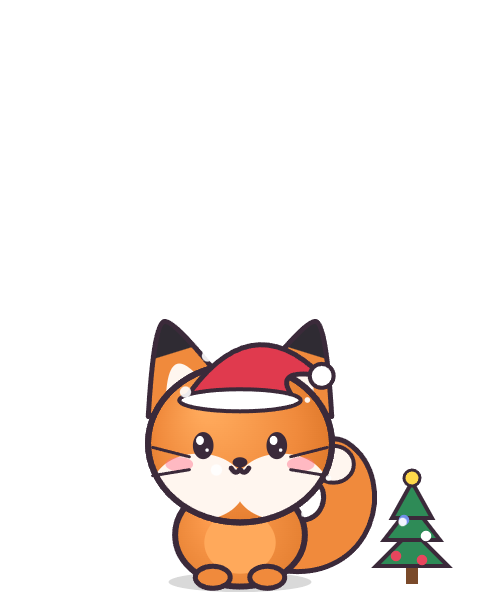
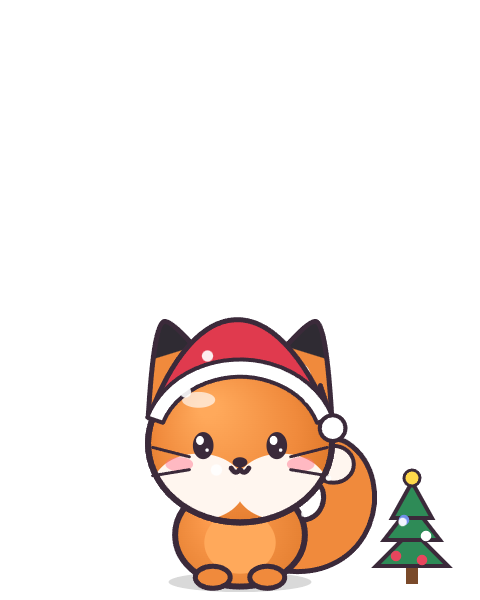
Version 2.3.3
- Bonnet de Noël redessiné : il épouse la tête comme le bonnet de nuit
- Site : encadré expliquant l'avertissement de macOS et comment l'autoriser gratuitement (Réglages ou Terminal)
- Site : après un clic sur « Télécharger », la page descend jusqu'aux conseils d'installation du bon système ; rappel pour Mac sous les boutons

Changed region(s): [[0.3125, 0.51, 0.75, 0.75]]

diff --git a/src/draw.js b/src/draw.js
@@ -385,24 +385,14 @@ function drawAccessory(ctx, kind, cx, g, v) {
     ellipse(ctx, 0, -r * 0.88, r * 0.1, r * 0.1, '#ff6f91', INK, 1.5);
     ctx.restore();
   } else if (kind === 'noel') {
-    const baseY = headCy - headRy * 0.62;
-    const sway = Math.sin(v.t * 1.5) * 2;
-    ctx.beginPath();
-    ctx.moveTo(cx - headRx * 0.62, baseY + 4);
-    ctx.quadraticCurveTo(cx + headRx * 0.1, baseY - r * 1.0, cx + headRx * 0.9 + sway, baseY - r * 0.2);
-    ctx.quadraticCurveTo(cx + headRx * 0.3, baseY - r * 0.3, cx + headRx * 0.62, baseY + 4);
-    ctx.closePath();
-    ctx.fillStyle = '#e03a4e';
-    ctx.fill();
-    ctx.lineWidth = 2.5;
-    ctx.stroke();
-    ellipse(ctx, cx, baseY + 3, headRx * 0.66, r * 0.12, '#fff', INK, 2);
-    ellipse(ctx, cx + headRx * 0.9 + sway, baseY - r * 0.2, r * 0.13, r * 0.13, '#fff', INK, 2);
+    // Même coupe que le bonnet de nuit, qui épouse la tête, en rouge avec revers et pompon blancs
+    drawNightcap(ctx, cx, g, v.t, v.species, '#e03a4e', false);
   }
 }
 
 // Bonnet de nuit quand il dort le soir : il coiffe le haut de la tête et sa pointe retombe sur le côté
-function drawNightcap(ctx, cx, g, t, species) {
+// (sert aussi au bonnet de Noël, avec une autre couleur et sans étoiles)
+function drawNightcap(ctx, cx, g, t, species, cap = '#6f8fe8', stars = true) {
   const { r, headRx, headRy, headCy } = g;
   const sway = Math.sin(t * 1.2) * 2;
   // Le lapin le porte entre ses longues oreilles ; chat et ourson ont les oreilles dessous
@@ -420,7 +410,7 @@ function drawNightcap(ctx, cx, g, t, species) {
   ctx.quadraticCurveTo(cx + headRx * 0.75, top - r * 0.15, rx, ry);
   ctx.ellipse(cx, headCy, headRx * 1.04, headRy * 1.04, 0, a2, a1, true);
   ctx.closePath();
-  ctx.fillStyle = '#6f8fe8';
+  ctx.fillStyle = cap;
   ctx.fill();
   ctx.lineWidth = 2.5;
   ctx.lineJoin = 'round';
@@ -428,7 +418,7 @@ function drawNightcap(ctx, cx, g, t, species) {
   ctx.stroke();
   // Petites étoiles sur le tissu
   ctx.fillStyle = 'rgba(255,255,255,.7)';
-  for (const [dx, dy] of [[-0.25, -0.25], [0.2, -0.45], [0.55, -0.2]]) {
+  if (stars) for (const [dx, dy] of [[-0.25, -0.25], [0.2, -0.45], [0.55, -0.2]]) {
     ctx.beginPath();
     ctx.arc(cx + dx * headRx, top + dy * r, 1.8, 0, Math.PI * 2);
     ctx.fill();

diff --git a/site/style.css b/site/style.css
@@ -204,6 +204,29 @@ img { max-width: 100%; }
 .install-card ol { margin: 0; padding-left: 22px; }
 .install-card li { margin-bottom: 8px; }
 .note { margin: 14px 0 0; padding: 10px 14px; font-size: 15px; background: var(--cream); border-radius: 12px; }
+/* Conseils d'installation mis en valeur juste après un clic sur « Télécharger » */
+.install-hint { margin: 10px 0 0; font-size: 15px; color: var(--ink-soft); }
+.highlight { animation: highlight 1.2s ease 2; }
+@keyframes highlight {
+  0%, 100% { box-shadow: 0 0 0 0 rgba(232, 69, 109, 0); }
+  50% { box-shadow: 0 0 0 8px rgba(232, 69, 109, .35); }
+}
+
+/* Encadré : avertissement de macOS et comment le lever */
+.mac-warning {
+  max-width: 860px;
+  margin: 24px auto 0;
+  padding: 20px 24px;
+  background: #fff8e1;
+  border: 3px dashed #e8b84a;
+  border-radius: var(--radius);
+}
+.mac-warning h3 { margin: 0 0 8px; font-size: 22px; }
+.mac-warning p { margin: 8px 0; }
+.mac-warning ol { margin: 0; padding-left: 22px; }
+.mac-warning li { margin-bottom: 6px; }
+.mac-warning code { display: inline-block; margin: 2px 0 4px; padding: 8px 12px; font-size: 15px; user-select: all; }
+.mac-warning .note { background: #fff; }
 code { padding: 2px 6px; font-size: 14px; background: #fff; border: 1px solid rgba(59, 42, 58, .2); border-radius: 6px; word-break: break-all; }
 
 .faq { max-width: 780px; margin: 0 auto; }

diff --git a/site/index.php b/site/index.php
@@ -151,6 +151,7 @@ $jsonLd = [
           <span class="os">🍎</span> <?= $h(tt('Télécharger pour Mac')) ?>
         </a>
       </div>
+      <p class="install-hint"><?= tt('Sur Mac, une petite manipulation est nécessaire la première fois : <a href="#installer">voir comment</a>.') ?></p>
       <?php if ($downloads > 0): ?>
         <p class="counter"><?= $h(tt($downloads > 1 ? 'Déjà {n} téléchargements !' : 'Déjà {n} téléchargement !', ['n' => number_format($downloads, 0, ',', ' ')])) ?></p>
       <?php endif; ?>
@@ -227,7 +228,7 @@ $jsonLd = [
   <section class="section tinted" id="installer">
     <h2><?= $h(tt('Installer ThomasGotchi')) ?></h2>
     <div class="install">
-      <article class="install-card">
+      <article class="install-card" data-os="windows">
         <h3>⊞ Windows</h3>
         <ol>
           <li><?= tt('Télécharge le fichier <strong>.exe</strong> ci-dessus.') ?></li>
@@ -236,15 +237,27 @@ $jsonLd = [
         </ol>
         <p class="note"><?= $h(tt('Les nouvelles versions s\'installent ensuite toutes seules.')) ?></p>
       </article>
-      <article class="install-card">
+      <article class="install-card" data-os="mac">
         <h3>🍎 Mac</h3>
         <ol>
           <li><?= tt('Télécharge le fichier <strong>.dmg</strong> et ouvre-le.') ?></li>
           <li><?= tt('Glisse ThomasGotchi dans le dossier <strong>Applications</strong>.') ?></li>
-          <li><?= tt('La première fois : fais un <strong>clic droit</strong> sur l\'application et choisis <em>Ouvrir</em>. macOS affiche alors un avertissement : confirme avec le bouton <em>Ouvrir</em>.') ?></li>
+          <li><?= tt('Ouvre-la une première fois : macOS affiche un avertissement et refuse de la lancer. C\'est normal, voir l\'encadré ci-dessous.') ?></li>
         </ol>
-        <p class="note"><?= $h(tt('Si macOS indique que l\'application est « endommagée », ouvre le Terminal et tape :')) ?><br><code>xattr -cr /Applications/ThomasGotchi.app</code></p>
+        <p class="note"><?= $h(tt('L\'application te prévient quand une nouvelle version est disponible.')) ?></p>
       </article>
+    </div>
+    <!-- Avertissement de macOS (Gatekeeper) : l'application n'est pas signée par Apple -->
+    <div class="mac-warning">
+      <h3><?= $h(tt('⚠ L\'avertissement de macOS')) ?></h3>
+      <p><?= $h(tt('ThomasGotchi n\'est pas signé par Apple, car cela demande un abonnement payant. L\'application n\'est pas dangereuse : macOS ne la connaît simplement pas. Pour l\'autoriser, une seule fois :')) ?></p>
+      <ol>
+        <li><?= tt('Ouvre <strong>Réglages Système</strong> → <strong>Confidentialité et sécurité</strong>.') ?></li>
+        <li><?= tt('Descends jusqu\'au message sur ThomasGotchi, clique sur <em>Ouvrir quand même</em> et confirme avec ton mot de passe.') ?></li>
+      </ol>
+      <p><?= tt('Autre solution, valable aussi si macOS dit que l\'application est « endommagée » : ouvre le <strong>Terminal</strong> et tape cette commande, qui retire le blocage.') ?></p>
+      <code>xattr -cr /Applications/ThomasGotchi.app</code>
+      <p class="note"><?= $h(tt('À refaire après chaque nouvelle version téléchargée.')) ?></p>
     </div>
   </section>
 
@@ -274,6 +287,18 @@ $jsonLd = [
       first.parentNode.prepend(first);
       document.querySelectorAll('.downloads .btn').forEach((b) => { if (b !== first) b.classList.add('alt'); });
     }
+    // Après un clic sur « Télécharger », le téléchargement démarre et la page descend jusqu'aux conseils
+    // d'installation du bon système (sur Mac : l'encadré pour passer l'avertissement d'Apple)
+    document.querySelectorAll('.downloads [data-os]').forEach((btn) => btn.addEventListener('click', () => {
+      const os = btn.dataset.os;
+      const target = os === 'mac' ? document.querySelector('.mac-warning') : document.querySelector('.install-card[data-os="windows"]');
+      setTimeout(() => {
+        document.querySelector('#installer').scrollIntoView({ behavior: 'smooth' });
+        document.querySelectorAll('.install-card, .mac-warning').forEach((el) => el.classList.remove('highlight'));
+        document.querySelector(`.install-card[data-os="${os}"]`).classList.add('highlight');
+        if (target) target.classList.add('highlight');
+      }, 400);
+    }));
     // Le choix de langue est retenu (on ne redirige plus selon le navigateur)
     document.querySelectorAll('.langs a').forEach((a) => a.addEventListener('click', () => {
       document.cookie = 'tg_lang=' + a.dataset.lang + '; path=/; max-age=31536000; SameSite=Lax';

diff --git a/site/lang/es.php b/site/lang/es.php
@@ -72,10 +72,6 @@ return [
     'Les nouvelles versions s\'installent ensuite toutes seules.' => 'Después, las nuevas versiones se instalan solas.',
     'Télécharge le fichier <strong>.dmg</strong> et ouvre-le.' => 'Descarga el archivo <strong>.dmg</strong> y ábrelo.',
     'Glisse ThomasGotchi dans le dossier <strong>Applications</strong>.' => 'Arrastra ThomasGotchi a la carpeta <strong>Aplicaciones</strong>.',
-    'La première fois : fais un <strong>clic droit</strong> sur l\'application et choisis <em>Ouvrir</em>. macOS affiche alors un avertissement : confirme avec le bouton <em>Ouvrir</em>.' =>
-        'La primera vez: haz <strong>clic derecho</strong> en la aplicación y elige <em>Abrir</em>. macOS mostrará un aviso: confirma con el botón <em>Abrir</em>.',
-    'Si macOS indique que l\'application est « endommagée », ouvre le Terminal et tape :' =>
-        'Si macOS dice que la aplicación está «dañada», abre el Terminal y escribe:',
 
     'Questions fréquentes' => 'Preguntas frecuentes',
     'Est-ce vraiment gratuit ?' => '¿De verdad es gratis?',
@@ -108,4 +104,13 @@ return [
     'Le roux de la maison : pelage orange rayé et bouille ronde.' => 'El pelirrojo de la casa: pelaje naranja a rayas y carita redonda.',
     'Une tigrée grise aux rayures bien dessinées.' => 'Una atigrada gris de rayas bien marcadas.',
     'Noire et blanche, avec son petit masque.' => 'Blanca y negra, con su pequeño antifaz.',
+    'Ouvre-la une première fois : macOS affiche un avertissement et refuse de la lancer. C\'est normal, voir l\'encadré ci-dessous.' => 'Ábrela una primera vez: macOS muestra un aviso y se niega a abrirla. Es normal, mira el recuadro de abajo.',
+    'L\'application te prévient quand une nouvelle version est disponible.' => 'La aplicación te avisa cuando hay una nueva versión disponible.',
+    '⚠ L\'avertissement de macOS' => '⚠ El aviso de macOS',
+    'ThomasGotchi n\'est pas signé par Apple, car cela demande un abonnement payant. L\'application n\'est pas dangereuse : macOS ne la connaît simplement pas. Pour l\'autoriser, une seule fois :' => 'ThomasGotchi no está firmado por Apple, porque eso requiere una suscripción de pago. La aplicación no es peligrosa: macOS simplemente no la conoce. Para autorizarla, una sola vez:',
+    'Ouvre <strong>Réglages Système</strong> → <strong>Confidentialité et sécurité</strong>.' => 'Abre <strong>Ajustes del Sistema</strong> → <strong>Privacidad y seguridad</strong>.',
+    'Descends jusqu\'au message sur ThomasGotchi, clique sur <em>Ouvrir quand même</em> et confirme avec ton mot de passe.' => 'Baja hasta el mensaje sobre ThomasGotchi, haz clic en <em>Abrir igualmente</em> y confirma con tu contraseña.',
+    'Autre solution, valable aussi si macOS dit que l\'application est « endommagée » : ouvre le <strong>Terminal</strong> et tape cette commande, qui retire le blocage.' => 'Otra solución, que también sirve si macOS dice que la aplicación está «dañada»: abre el <strong>Terminal</strong> y escribe este comando, que quita el bloqueo.',
+    'À refaire après chaque nouvelle version téléchargée.' => 'Hay que repetirlo con cada nueva versión descargada.',
+    'Sur Mac, une petite manipulation est nécessaire la première fois : <a href="#installer">voir comment</a>.' => 'En Mac, hace falta un pequeño paso la primera vez: <a href="#installer">ver cómo</a>.',
 ];

diff --git a/site/lang/it.php b/site/lang/it.php
@@ -72,10 +72,6 @@ return [
     'Les nouvelles versions s\'installent ensuite toutes seules.' => 'Poi le nuove versioni si installano da sole.',
     'Télécharge le fichier <strong>.dmg</strong> et ouvre-le.' => 'Scarica il file <strong>.dmg</strong> e aprilo.',
     'Glisse ThomasGotchi dans le dossier <strong>Applications</strong>.' => 'Trascina ThomasGotchi nella cartella <strong>Applicazioni</strong>.',
-    'La première fois : fais un <strong>clic droit</strong> sur l\'application et choisis <em>Ouvrir</em>. macOS affiche alors un avertissement : confirme avec le bouton <em>Ouvrir</em>.' =>
-        'La prima volta: fai <strong>clic destro</strong> sull\'app e scegli <em>Apri</em>. macOS mostrerà un avviso: conferma con il pulsante <em>Apri</em>.',
-    'Si macOS indique que l\'application est « endommagée », ouvre le Terminal et tape :' =>
-        'Se macOS dice che l\'app è «danneggiata», apri il Terminale e digita:',
 
     'Questions fréquentes' => 'Domande frequenti',
     'Est-ce vraiment gratuit ?' => 'È davvero gratis?',
@@ -108,4 +104,13 @@ return [
     'Le roux de la maison : pelage orange rayé et bouille ronde.' => 'Il rosso di casa: mantello arancione tigrato e musetto tondo.',
     'Une tigrée grise aux rayures bien dessinées.' => 'Una tigrata grigia dalle strisce ben disegnate.',
     'Noire et blanche, avec son petit masque.' => 'Bianca e nera, con la sua mascherina.',
+    'Ouvre-la une première fois : macOS affiche un avertissement et refuse de la lancer. C\'est normal, voir l\'encadré ci-dessous.' => 'Aprila una prima volta: macOS mostra un avviso e rifiuta di avviarla. È normale, vedi il riquadro qui sotto.',
+    'L\'application te prévient quand une nouvelle version est disponible.' => 'L\'applicazione ti avvisa quando è disponibile una nuova versione.',
+    '⚠ L\'avertissement de macOS' => '⚠ L\'avviso di macOS',
+    'ThomasGotchi n\'est pas signé par Apple, car cela demande un abonnement payant. L\'application n\'est pas dangereuse : macOS ne la connaît simplement pas. Pour l\'autoriser, une seule fois :' => 'ThomasGotchi non è firmato da Apple, perché richiede un abbonamento a pagamento. L\'applicazione non è pericolosa: macOS semplicemente non la conosce. Per autorizzarla, una volta sola:',
+    'Ouvre <strong>Réglages Système</strong> → <strong>Confidentialité et sécurité</strong>.' => 'Apri <strong>Impostazioni di Sistema</strong> → <strong>Privacy e sicurezza</strong>.',
+    'Descends jusqu\'au message sur ThomasGotchi, clique sur <em>Ouvrir quand même</em> et confirme avec ton mot de passe.' => 'Scorri fino al messaggio su ThomasGotchi, fai clic su <em>Apri comunque</em> e conferma con la tua password.',
+    'Autre solution, valable aussi si macOS dit que l\'application est « endommagée » : ouvre le <strong>Terminal</strong> et tape cette commande, qui retire le blocage.' => 'Un\'altra soluzione, valida anche se macOS dice che l\'applicazione è «danneggiata»: apri il <strong>Terminale</strong> e digita questo comando, che rimuove il blocco.',
+    'À refaire après chaque nouvelle version téléchargée.' => 'Da ripetere dopo ogni nuova versione scaricata.',
+    'Sur Mac, une petite manipulation est nécessaire la première fois : <a href="#installer">voir comment</a>.' => 'Su Mac serve un piccolo passaggio la prima volta: <a href="#installer">ecco come</a>.',
 ];

diff --git a/site/lang/en.php b/site/lang/en.php
@@ -72,10 +72,6 @@ return [
     'Les nouvelles versions s\'installent ensuite toutes seules.' => 'New versions then install by themselves.',
     'Télécharge le fichier <strong>.dmg</strong> et ouvre-le.' => 'Download the <strong>.dmg</strong> file and open it.',
     'Glisse ThomasGotchi dans le dossier <strong>Applications</strong>.' => 'Drag ThomasGotchi into the <strong>Applications</strong> folder.',
-    'La première fois : fais un <strong>clic droit</strong> sur l\'application et choisis <em>Ouvrir</em>. macOS affiche alors un avertissement : confirme avec le bouton <em>Ouvrir</em>.' =>
-        'The first time: <strong>right-click</strong> the app and choose <em>Open</em>. macOS then shows a warning: confirm with the <em>Open</em> button.',
-    'Si macOS indique que l\'application est « endommagée », ouvre le Terminal et tape :' =>
-        'If macOS says the app is "damaged", open the Terminal and type:',
 
     'Questions fréquentes' => 'Frequently asked questions',
     'Est-ce vraiment gratuit ?' => 'Is it really free?',
@@ -108,4 +104,13 @@ return [
     'Le roux de la maison : pelage orange rayé et bouille ronde.' => 'The ginger of the house: striped orange coat and a round little face.',
     'Une tigrée grise aux rayures bien dessinées.' => 'A grey tabby with neatly drawn stripes.',
     'Noire et blanche, avec son petit masque.' => 'Black and white, with her little mask.',
+    'Ouvre-la une première fois : macOS affiche un avertissement et refuse de la lancer. C\'est normal, voir l\'encadré ci-dessous.' => 'Open it once: macOS shows a warning and refuses to launch it. That\'s normal, see the box below.',
+    'L\'application te prévient quand une nouvelle version est disponible.' => 'The app lets you know when a new version is available.',
+    '⚠ L\'avertissement de macOS' => '⚠ The macOS warning',
+    'ThomasGotchi n\'est pas signé par Apple, car cela demande un abonnement payant. L\'application n\'est pas dangereuse : macOS ne la connaît simplement pas. Pour l\'autoriser, une seule fois :' => 'ThomasGotchi isn\'t signed by Apple, because that requires a paid subscription. The app isn\'t dangerous: macOS simply doesn\'t know it. To allow it, just once:',
+    'Ouvre <strong>Réglages Système</strong> → <strong>Confidentialité et sécurité</strong>.' => 'Open <strong>System Settings</strong> → <strong>Privacy &amp; Security</strong>.',
+    'Descends jusqu\'au message sur ThomasGotchi, clique sur <em>Ouvrir quand même</em> et confirme avec ton mot de passe.' => 'Scroll down to the message about ThomasGotchi, click <em>Open Anyway</em> and confirm with your password.',
+    'Autre solution, valable aussi si macOS dit que l\'application est « endommagée » : ouvre le <strong>Terminal</strong> et tape cette commande, qui retire le blocage.' => 'Another way, which also works if macOS says the app is “damaged”: open <strong>Terminal</strong> and type this command, which removes the block.',
+    'À refaire après chaque nouvelle version téléchargée.' => 'Do it again after each new version you download.',
+    'Sur Mac, une petite manipulation est nécessaire la première fois : <a href="#installer">voir comment</a>.' => 'On a Mac, a small extra step is needed the first time: <a href="#installer">see how</a>.',
 ];
